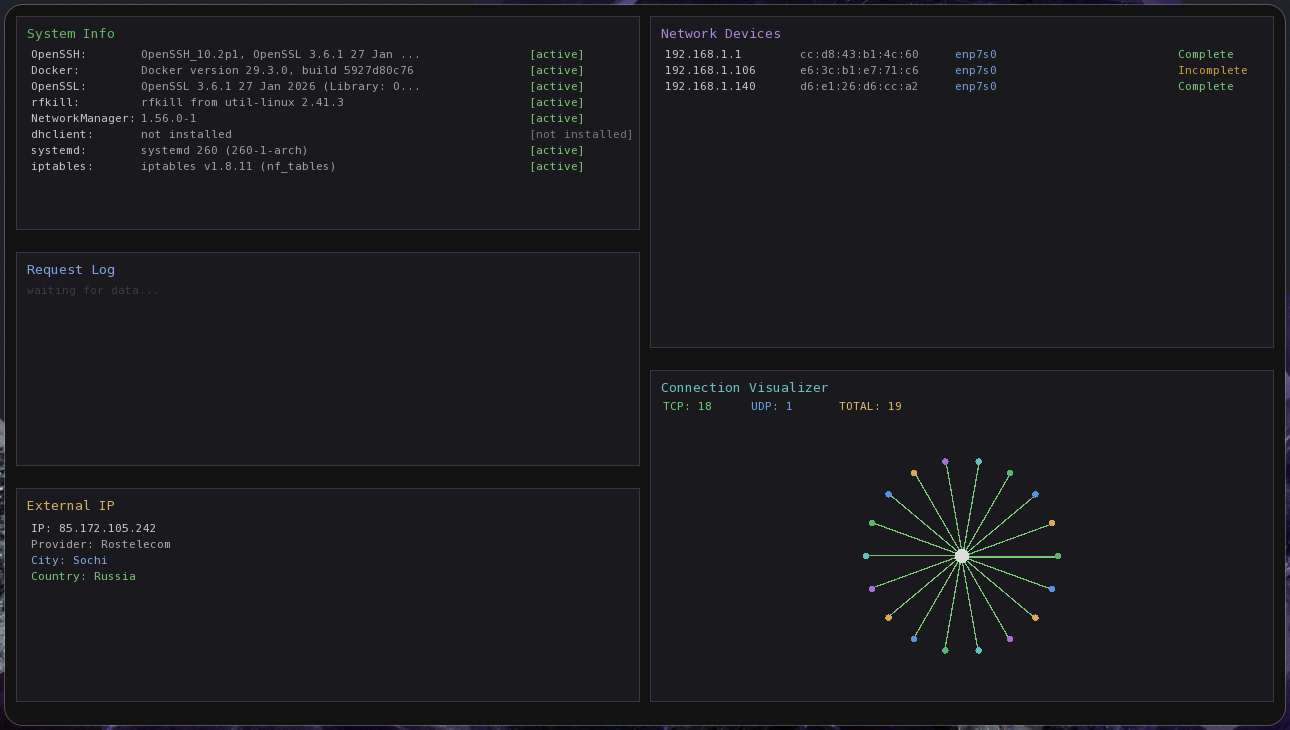
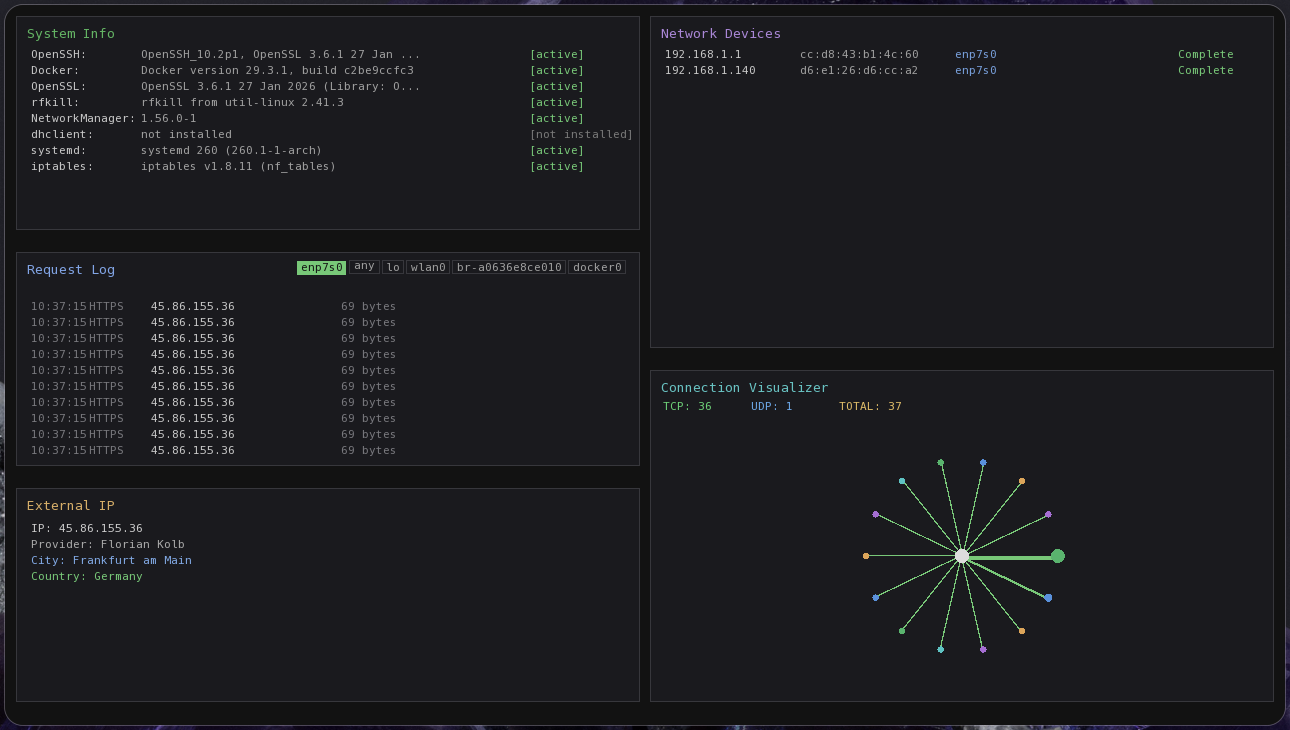
update demo pic and update all todo list on project and remove old chengelog

diff --git a/README.md b/README.md
@@ -1,6 +1,6 @@
 # NetPulse Monitor
 
-![Version](https://img.shields.io/badge/version-0.2.0-blue)
+![Version](https://img.shields.io/badge/version-0.2.2-blue)
 ![License](https://img.shields.io/badge/license-GPL--3.0-green)
 ![Platform](https://img.shields.io/badge/platform-Linux-lightgrey)
 ![Build](https://img.shields.io/badge/build-passing-brightgreen)
@@ -114,8 +114,8 @@ NetPulse-Monitor/
 | M3 - Block 1: System Info | ✅ |
 | M4 - Block 4: Network Devices | ✅ |
 | M5 - Block 5: Connection Visualizer | ✅ |
-| M6 - Block 3: External IP | ⬜ |
-| M7 - Block 2: Packet Sniffer | ⬜ |
+| M6 - Block 3: External IP | ✅ |
+| M7 - Block 2: Packet Sniffer | ✅ |
 | M8 - UI polish, animations | ⬜ |
 | M9 - Docs, demo | ⬜ |
 

diff --git a/AGENTS.md b/AGENTS.md
@@ -291,7 +291,7 @@ NetPulse/
 | M3 | Блок 1: System Info | ✅ |
 | M4 | Блок 4: Network Devices (ARP) | ✅ |
 | M5 | Блок 5: Connection Visualization | ✅ |
-| M6 | Блок 3: External IP (libcurl) | ⬜ |
+| M6 | Блок 3: External IP (libcurl) | ✅ |
 | M7 | Блок 2: Packet Sniffer (libpcap) | ✅ |
 | M8 | UI-полировка, анимации | ⬜ |
 | M9 | README, документация, демо | ⬜ |
